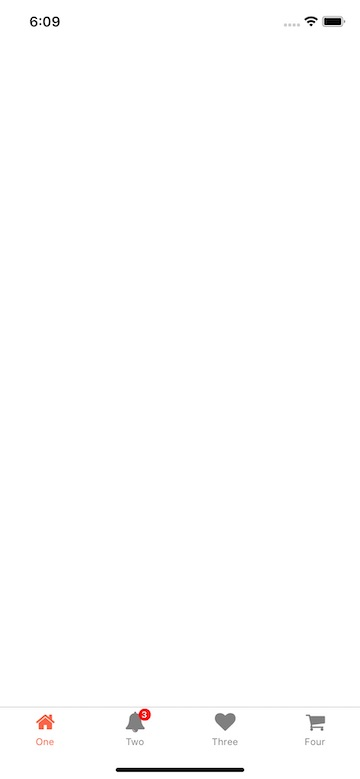
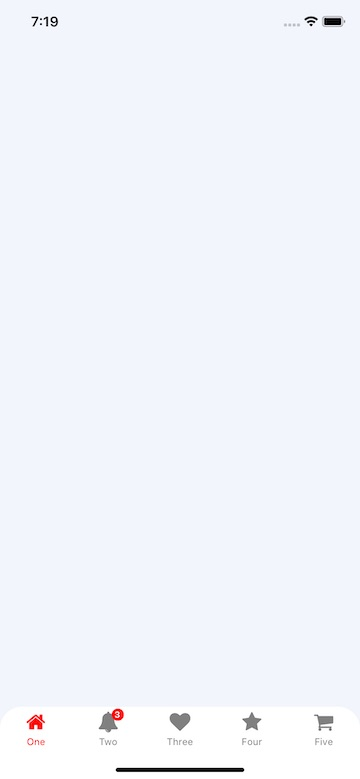
Update Tab Bar
- Updated screenshot
- Set App background
- Updated Xcode version

diff --git a/App.js b/App.js
@@ -1,11 +1,14 @@
 // App
 
 import React from 'react';
+import { View } from 'react-native';
 import { Provider } from 'react-redux';
 import Icon from 'react-native-vector-icons/FontAwesome';
 
 import AppContainer from './src';
 import store from './src/store';
+
+import constants from './src/const';
 
 class App extends React.Component {
 
@@ -16,7 +19,9 @@ class App extends React.Component {
   render() {
     return (
       <Provider store={store}>
-        <AppContainer />
+        <View style={{ flex: 1, backgroundColor: constants.colors.bg }}>
+          <AppContainer />
+        </View>
       </Provider>
     );
   }

diff --git a/src/navigator/tabNavigator.js b/src/navigator/tabNavigator.js
@@ -49,8 +49,13 @@ const TabNavigator = createBottomTabNavigator(
 
     }),
     tabBarOptions: {
-      activeTintColor: constants.colors.tint,
+      activeTintColor: 'red', //constants.colors.tint,
       inactiveTintColor: 'gray',
+      style: {
+        borderTopColor: 'transparent',
+        borderTopLeftRadius: 25,
+        borderTopRightRadius: 25
+      }
     },
   }
 );

diff --git a/src/sagas/index.js b/src/sagas/index.js
@@ -1,10 +1,9 @@
 // Saga
 
 import { all, fork } from 'redux-saga/effects';
-import { networkSaga } from 'react-native-offline';
 
 export default function* saga() {
   yield all([
-    fork(networkSaga, { pingInterval: 20000 })
+
   ]);
 }

diff --git a/src/screens/first/index.js b/src/screens/first/index.js
@@ -7,7 +7,7 @@ import Base from '../../components/base';
 
 class FirstScreen extends React.Component {
   render() {
-    return ( 
+    return (
       <Base /> 
     );
   }
